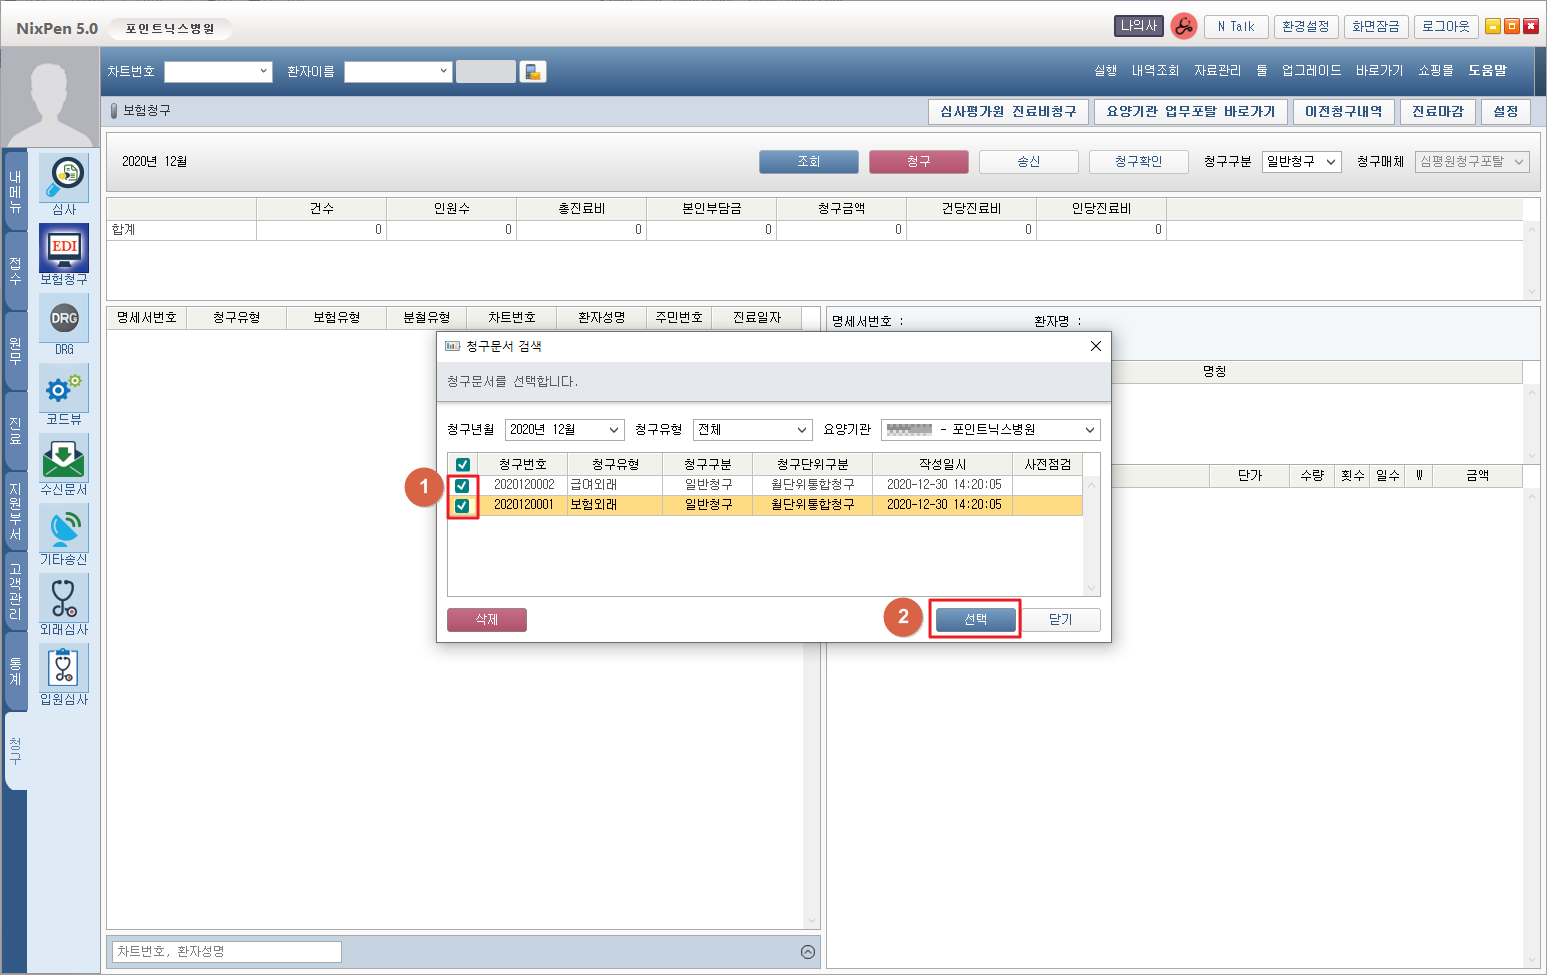
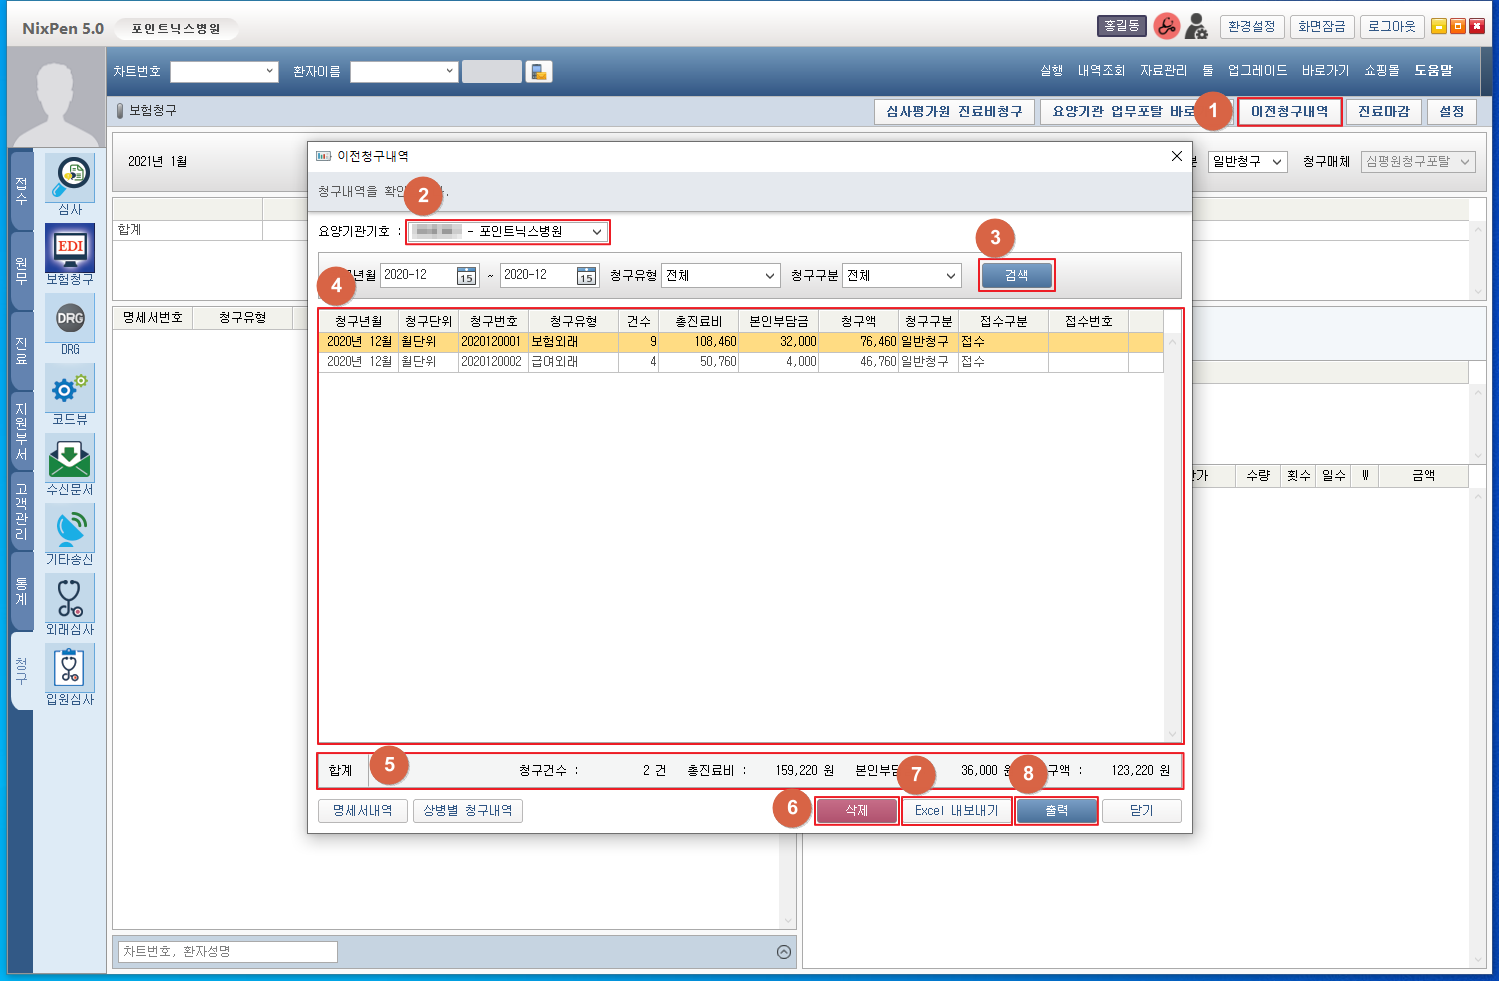
main11_sub2_page7 내용 수정

Changed region(s): [[0.0, 0.0, 1.0, 1.0]]

diff --git a/_docs/main11/sub2/page7.md b/_docs/main11/sub2/page7.md
@@ -6,19 +6,49 @@ pageOrder: 7
 ---
 
 <pre>
- <t2><bold>1. 이전청구문서 생성내역</bold></t2>
-     ① [청구확인] 버튼을 클릭합니다.
-     ② 청구문서 검색조건을 선택할 수 있습니다.
-     ③ 작성된 청구문서 목록을 확인합니다.
+ <t2><bold>1. 이전청구내역 화면</bold></t2>
+     ① [이전청구내역] 버튼을 클릭합니다.
+     ② 이전청구내역을 확인할 요양기관을 선택합니다.
+     ③ 검색 조건을 선택 후 [검색] 버튼을 클릭하여 이전청구내역을 검색합니다.
+     ④ 검색된 이전청구 내역을 확인할 수 있습니다.
+     ⑤ 검색된 이전청구 내역의 합계를 확인할 수 있습니다.
+     ⑥ 선택한 청구내역을 삭제합니다.
+     ⑦ 검색된 청구내역 목록을 Excel 형식으로 저장합니다.
+     ⑧ 검색된 청구내역 목록을 출력합니다.
 </pre>
 
 [![](/images/{{page.url}}_1.png)](/images/{{page.url}}_1.png){: target="_blank"}
 
 <pre>
- <t2><bold>2. 심평원 송신내역 확인역</bold></t2>
-     ① [심사평가원 진료비청구] 버튼을 클릭합니다.
-     ② [청구] 버튼을 클릭합니다.
-     ③ 청구문서생성 내역 및 송신정보를 확인합니다.
+ <t2><bold>2. 명세서내역</bold></t2>
+     ① 명세서내역을 확인할 청구내역을 선택합니다.
+     ② [명세서내역] 버튼을 클릭합니다.
 </pre>
 
 [![](/images/{{page.url}}_2.png)](/images/{{page.url}}_2.png){: target="_blank"}
+
+<pre>
+     ③ 선택한 청구내역에 포함된 명세서내역을 확인할 수 있습니다.
+     ④ [Excel 내보내기] 버튼을 클릭하여 목록을 Excel 형식으로 저장합니다.
+</pre>
+
+[![](/images/{{page.url}}_3.png)](/images/{{page.url}}_3.png){: target="_blank"}
+
+<pre>
+ <t2><bold>3. 명세서내역</bold></t2>
+     ① 상병별 청구내역을 확인할 청구내역을 선택합니다.
+     ② [상병별 청구내역] 버튼을 클릭합니다.
+</pre>
+
+[![](/images/{{page.url}}_4.png)](/images/{{page.url}}_4.png){: target="_blank"}
+
+<pre>
+     ③ 청구에 포함된 상병내역을 확인할 수 있습니다.
+     ④ 상병코드 또는 상병명으로 특정 상병을 검색합니다.
+     ⑤ ③에서 선택한 상병이 포함된 진료내역을 확인할 수 있습니다.
+     ⑥ 진료내역의 합계를 확인할 수 있습니다.
+     ⑦ [<img src="/images/{{page.url}}_btn_1.png"  width="20" height="20">] 버튼을 클릭하여 상병내역을 Excel 형식으로 저장합니다.
+     ⑧ [<img src="/images/{{page.url}}_btn_1.png"  width="20" height="20">] 버튼을 클릭하여 진료내역을 Excel 형식으로 저장합니다.
+</pre>
+
+[![](/images/{{page.url}}_5.png)](/images/{{page.url}}_5.png){: target="_blank"}
